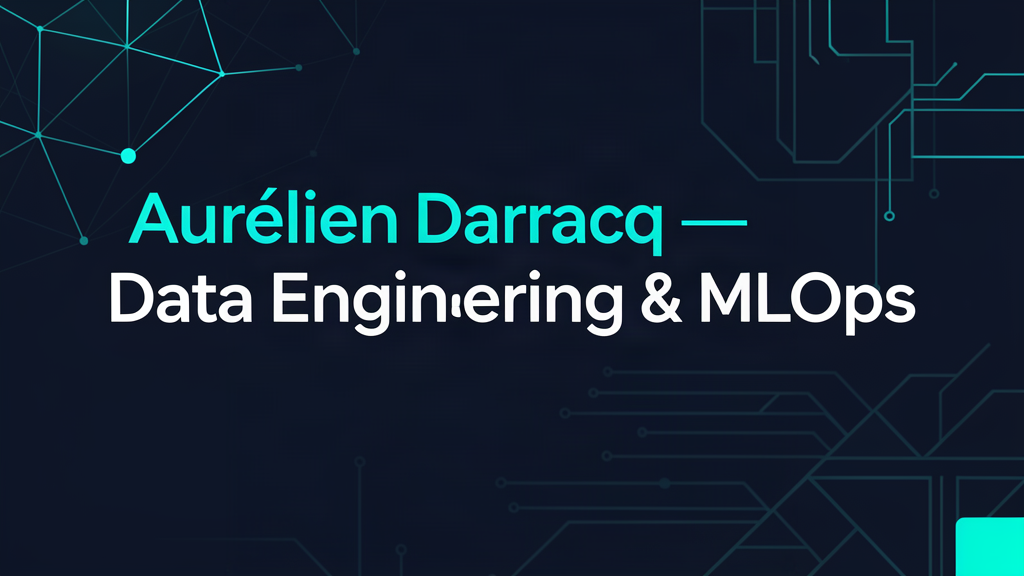
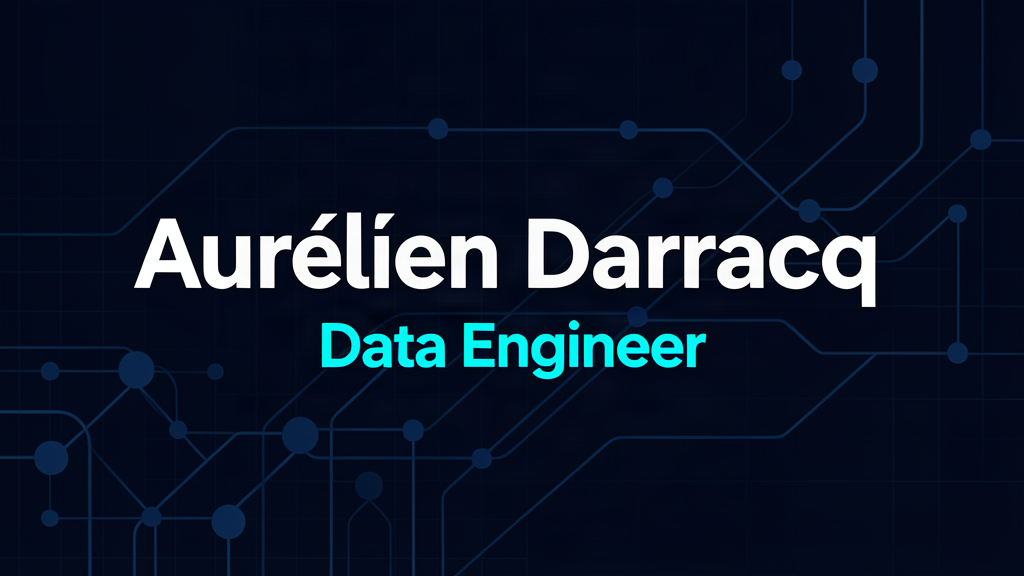
feat: Add OG image and social preview meta tags
- Add 1200×630 default OG image (dark navy + cyan design system)
- Add site.default_image config pointing to og-default.png
- Add og:image, og:url, twitter:card, twitter:image meta tags with
  per-page fallback (hero → image → thumb → default)
- All image URLs use absolute_url for correct OG rendering

Closes #39 - Add an og:image for social link previews

diff --git a/_layouts/default.html b/_layouts/default.html
@@ -8,6 +8,13 @@
   <meta property="og:title" content="{{ page.title }} | {{ site.title }}">
   <meta property="og:description" content="{{ page.summary | default: page.description | default: page.excerpt | default: site.description | strip_html | strip_newlines | truncate: 160 }}">
   <meta property="og:type" content="website">
+  {% assign og_image = page.hero | default: page.image | default: page.thumb | default: site.default_image %}
+  <meta property="og:image" content="{{ og_image | relative_url | absolute_url }}">
+  <meta property="og:url" content="{{ page.url | relative_url | absolute_url }}">
+  <meta name="twitter:card" content="summary_large_image">
+  <meta name="twitter:title" content="{{ page.title }} | {{ site.title }}">
+  <meta name="twitter:description" content="{{ page.summary | default: page.description | default: page.excerpt | default: site.description | strip_html | strip_newlines | truncate: 160 }}">
+  <meta name="twitter:image" content="{{ og_image | relative_url | absolute_url }}">
   <link rel="icon" type="image/x-icon" href="{{ '/favicon.ico' | relative_url }}">
   {% assign css = site.static_files | where: "path", "/assets/css/site.css" | first %}
   {% assign v = css.modified_time | default: site.time %}
